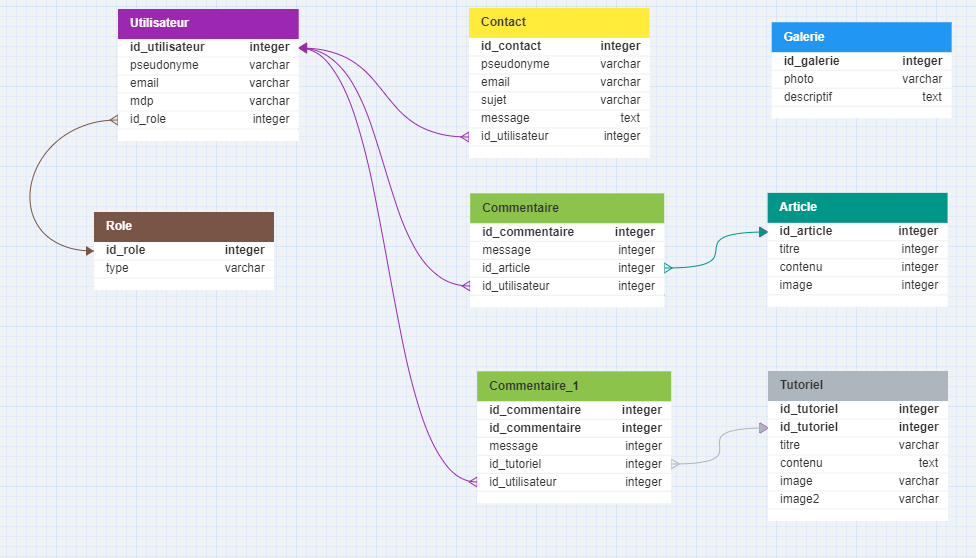
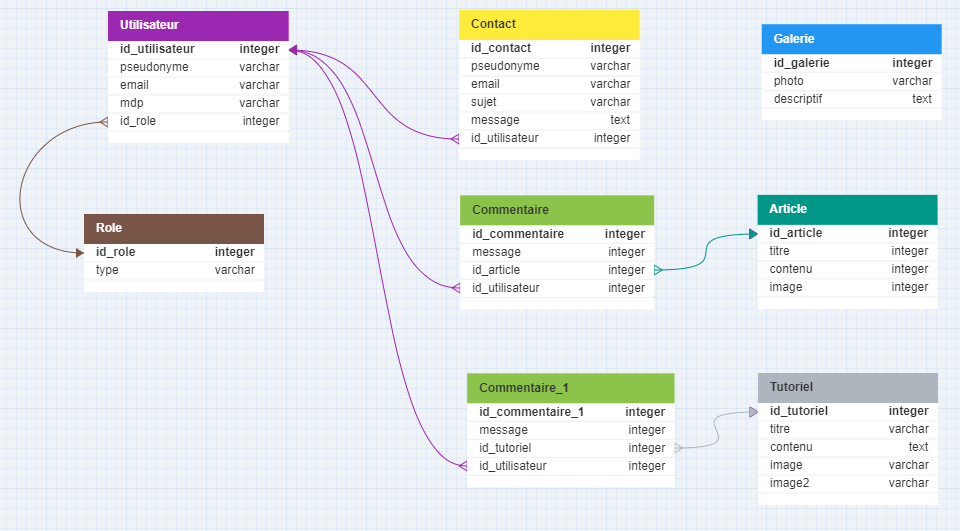
bdd retouche suppression de doublon

diff --git a/style.css b/style.css
@@ -1,0 +1,16 @@
+/* 
+Couleurs:
+Font-Color (Couleur du texte principal) : #2C2C2C (Gris foncé chaud)
+Font-Color-Secondary (Couleur du texte secondaire) : #6C6C6C (Gris chaud)
+Background-Color (Couleur de fond principal) : #FFEBCD (Blé)
+Background-Color-Secondary (Couleur de fond secondaire) :   (Orange sandy)
+Button (Couleur des boutons) : #FF6347 (Tomate) 
+
+Typos:
+font-family: 'Wallpoet', cursive;
+
+*/
+
+body{
+    background-color: #FFEBCD;
+}

diff --git a/Index.php b/Index.php
@@ -12,11 +12,11 @@
 
 <?php
 
-    include "header.php";
+    include "composants/header.php";
 
-    include "main.php";
+    include "composants/main.php";
 
-    include "footer.php";
+    include "composants/footer.php";
 
 ?>
   
